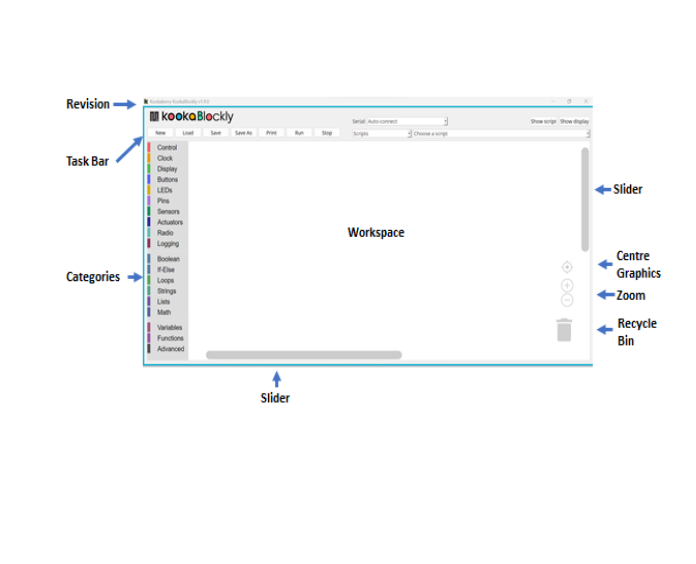
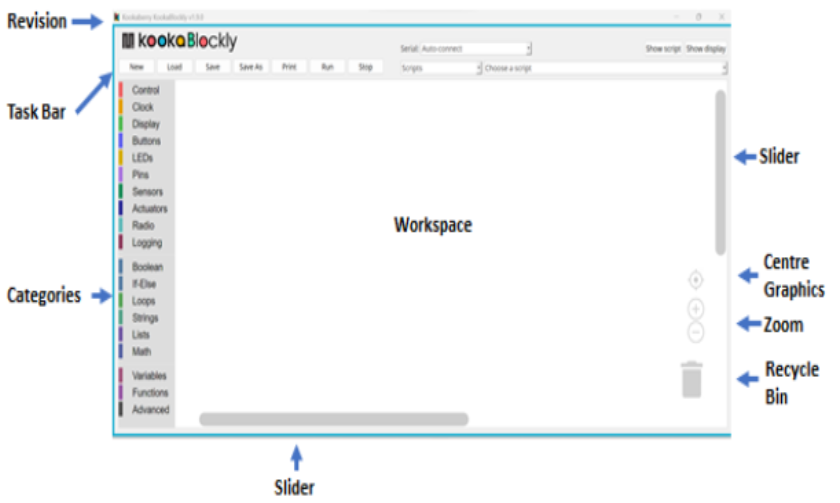
reformat initial image

diff --git a/docs/source/KookaBlockly_Overview.rst b/docs/source/KookaBlockly_Overview.rst
@@ -55,6 +55,7 @@ Run KookaBlockly on your computer and the following screen display will be prese
 .. image:: images/KB_Init_Display.png
     :alt:  Initial Display
     :width: 640px
+    :align: center
 
 
 * *Revision Level* 
@@ -475,6 +476,8 @@ KookaBlockly contains three basic block shapes:
         Choose a block by clicking on it.  Right click on the block and then choose Delete Block to delete the block from 
         the script or press the Delete key on the keyboard.   Blocks can also be deleted by clicking on a block, separating 
         it from the graphical script and dragging it into the recycle bin.
+
+
 
 
 
